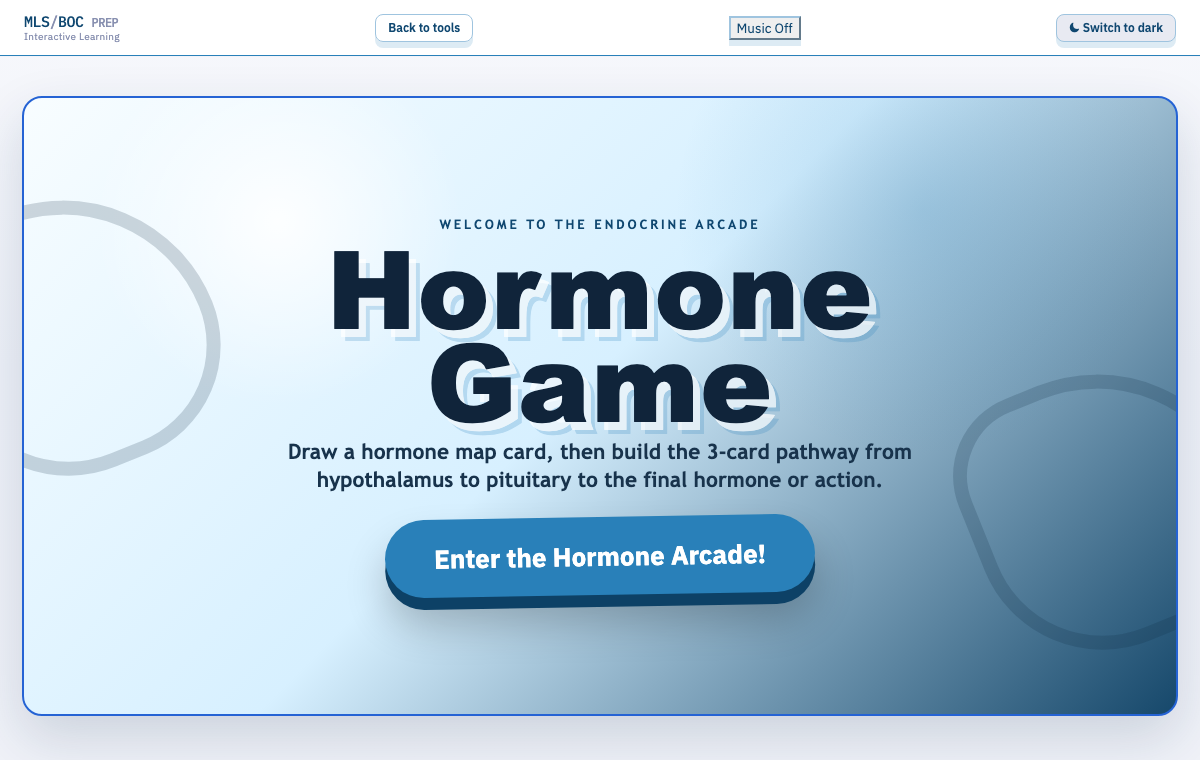
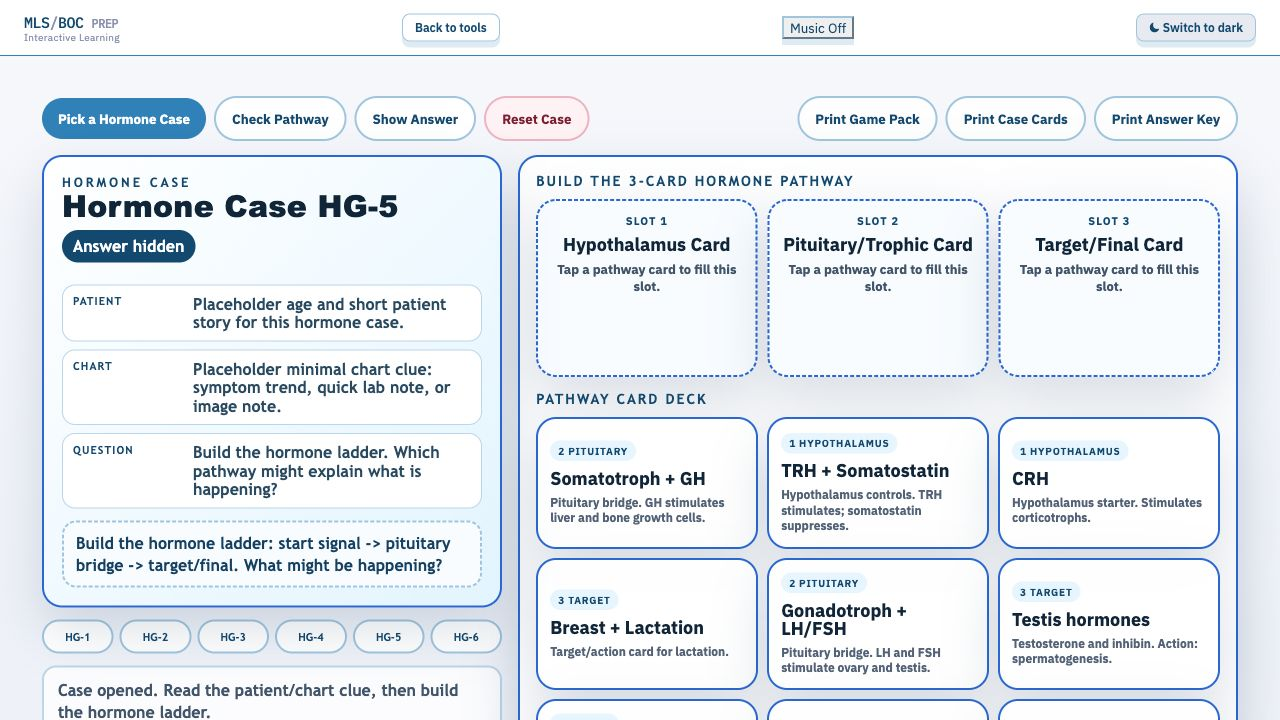
Hide hormone case answers

diff --git a/Hormone_Game.html b/Hormone_Game.html
@@ -190,6 +190,39 @@ body.hormone-game .mls-audio-btn{
   padding:8px 10px;
   background:#fff;
 }
+.case-chart{
+  display:grid;
+  gap:8px;
+  margin-top:12px;
+}
+.case-row{
+  display:grid;
+  grid-template-columns:110px 1fr;
+  gap:10px;
+  align-items:start;
+  border:1px solid #bad4ea;
+  border-radius:13px;
+  padding:9px 10px;
+  background:#fff;
+  color:#284861;
+  font-weight:900;
+}
+.case-row strong{
+  color:var(--chem-dark);
+  font-size:11px;
+  letter-spacing:.1em;
+  text-transform:uppercase;
+}
+.case-question{
+  margin-top:12px;
+  border:2px dashed #9fc4df;
+  border-radius:14px;
+  padding:10px 12px;
+  background:#f8fcff;
+  color:#123f62;
+  font-weight:1000;
+  line-height:1.35;
+}
 .progress-strip{
   display:grid;
   grid-template-columns:repeat(6,1fr);
@@ -346,6 +379,7 @@ body.hormone-game .mls-audio-btn{
   .card-bank{grid-template-columns:1fr}
   .toolbar{display:grid}
   .toolbar-left,.toolbar-right{display:grid;grid-template-columns:1fr 1fr}
+  .case-row{grid-template-columns:1fr;gap:3px}
 }
 </style>
 </head>
@@ -366,6 +400,13 @@ const routes = [
   {
     id:"adrenal",
     title:"Adrenal Stress Route",
+    caseCode:"HG-1",
+    caseTitle:"Hormone Case HG-1",
+    caseRows:[
+      ["Patient","Placeholder age and short patient story for this hormone case."],
+      ["Chart","Placeholder minimal chart clue: symptom trend, quick lab note, or image note."],
+      ["Question","Build the hormone ladder. Which pathway might explain what is happening?"]
+    ],
     goal:"Cortisol",
     axis:"CRH -> ACTH -> Cortisol",
     start:"start-adrenal",
@@ -377,6 +418,13 @@ const routes = [
   {
     id:"thyroid",
     title:"Thyroid Heat Route",
+    caseCode:"HG-2",
+    caseTitle:"Hormone Case HG-2",
+    caseRows:[
+      ["Patient","Placeholder age and short patient story for this hormone case."],
+      ["Chart","Placeholder minimal chart clue: symptom trend, quick lab note, or image note."],
+      ["Question","Build the hormone ladder. Which pathway might explain what is happening?"]
+    ],
     goal:"T3 and T4",
     axis:"TRH / Somatostatin -> TSH -> T3, T4",
     start:"start-thyroid",
@@ -388,6 +436,13 @@ const routes = [
   {
     id:"ovary",
     title:"Ovary Cycle Route",
+    caseCode:"HG-3",
+    caseTitle:"Hormone Case HG-3",
+    caseRows:[
+      ["Patient","Placeholder age and short patient story for this hormone case."],
+      ["Chart","Placeholder minimal chart clue: symptom trend, quick lab note, or image note."],
+      ["Question","Build the hormone ladder. Which pathway might explain what is happening?"]
+    ],
     goal:"Estradiol, progesterone, inhibin, follistatin",
     axis:"GnRH -> LH/FSH -> ovarian hormones",
     start:"start-gonadal",
@@ -399,6 +454,13 @@ const routes = [
   {
     id:"testis",
     title:"Testis Signal Route",
+    caseCode:"HG-4",
+    caseTitle:"Hormone Case HG-4",
+    caseRows:[
+      ["Patient","Placeholder age and short patient story for this hormone case."],
+      ["Chart","Placeholder minimal chart clue: symptom trend, quick lab note, or image note."],
+      ["Question","Build the hormone ladder. Which pathway might explain what is happening?"]
+    ],
     goal:"Testosterone and inhibin",
     axis:"GnRH -> LH/FSH -> testicular hormones",
     start:"start-gonadal",
@@ -410,6 +472,13 @@ const routes = [
   {
     id:"growth",
     title:"Growth Route",
+    caseCode:"HG-5",
+    caseTitle:"Hormone Case HG-5",
+    caseRows:[
+      ["Patient","Placeholder age and short patient story for this hormone case."],
+      ["Chart","Placeholder minimal chart clue: symptom trend, quick lab note, or image note."],
+      ["Question","Build the hormone ladder. Which pathway might explain what is happening?"]
+    ],
     goal:"IGF-1",
     axis:"GHRH / Somatostatin -> GH -> IGF-1",
     start:"start-growth",
@@ -421,6 +490,13 @@ const routes = [
   {
     id:"prolactin",
     title:"Lactation Route",
+    caseCode:"HG-6",
+    caseTitle:"Hormone Case HG-6",
+    caseRows:[
+      ["Patient","Placeholder age and short patient story for this hormone case."],
+      ["Chart","Placeholder minimal chart clue: symptom trend, quick lab note, or image note."],
+      ["Question","Build the hormone ladder. Which pathway might explain what is happening?"]
+    ],
     goal:"PRL",
     axis:"Dopamine suppression -> PRL -> lactation",
     start:"start-prl",
@@ -447,7 +523,7 @@ const cards = [
   {id:"final-growth",type:"final",name:"Liver + IGF-1",copy:"Final hormone: IGF-1. Actions: growth and anabolic metabolism."},
   {id:"start-prl",type:"start",name:"Dopamine",copy:"Hypothalamus suppressor. Dopamine suppresses lactotrophs."},
   {id:"mid-prl",type:"middle",name:"Lactotroph + PRL",copy:"Pituitary bridge. PRL travels to the breast."},
-  {id:"final-prl",type:"final",name:"Breast + Lactation",copy:"Final action: lactation."}
+  {id:"final-prl",type:"final",name:"Breast + Lactation",copy:"Target/action card for lactation."}
 ];
 
 const typeLabels = {start:"1 Hypothalamus",middle:"2 Pituitary",final:"3 Target"};
@@ -456,7 +532,7 @@ let currentRoute = null;
 let slots = [null,null,null];
 let selectedId = "";
 let solved = new Set();
-let feedback = "Grab a map card to begin.";
+let feedback = "Pick a hormone case to begin.";
 let feedbackType = "";
 let order = shuffle(cards.map(card => card.id));
 
@@ -483,7 +559,7 @@ function routeExpected(route){
 
 function enterGame(){
   scene = "board";
-  feedback = "Grab a map card. Then place exactly 3 cards in order.";
+  feedback = "Pick a hormone case. Then place exactly 3 ladder cards in order.";
   feedbackType = "";
   render();
 }
@@ -494,7 +570,7 @@ function drawMap(){
   currentRoute = pool[Math.floor(Math.random() * pool.length)];
   slots = [null,null,null];
   selectedId = "";
-  feedback = "Map drawn: build the pathway from start to final hormone/action.";
+  feedback = "Case opened. Read the patient/chart clue, then build the hormone ladder.";
   feedbackType = "";
   order = shuffle(cards.map(card => card.id));
   render();
@@ -502,7 +578,7 @@ function drawMap(){
 
 function placeCard(id){
   if(!currentRoute){
-    feedback = "Grab a map card first.";
+    feedback = "Pick a hormone case first.";
     feedbackType = "bad";
     render();
     return;
@@ -542,14 +618,14 @@ function clearSlot(index){
 function resetRound(){
   slots = [null,null,null];
   selectedId = "";
-  feedback = currentRoute ? "Round reset. Build the 3-card pathway again." : "Grab a map card to begin.";
+  feedback = currentRoute ? "Case reset. Build the 3-card hormone ladder again." : "Pick a hormone case to begin.";
   feedbackType = "";
   render();
 }
 
 function checkPath(){
   if(!currentRoute){
-    feedback = "Grab a map card first.";
+    feedback = "Pick a hormone case first.";
     feedbackType = "bad";
     render();
     return;
@@ -568,7 +644,7 @@ function checkPath(){
     feedbackType = "good";
   }else{
     const firstMiss = slots.findIndex((id, index) => id !== expected[index]);
-    feedback = "Route jam at slot " + (firstMiss + 1) + ". Check the order from hypothalamus to final target.";
+    feedback = "Ladder jam at slot " + (firstMiss + 1) + ". Check the order: hypothalamus, pituitary, target/final.";
     feedbackType = "bad";
   }
   render();
@@ -580,7 +656,7 @@ function showAnswer(){
     return;
   }
   slots = routeExpected(currentRoute);
-  feedback = "Answer shown for this map. Study the route, then draw another.";
+  feedback = "Answer revealed for this case. Study the ladder, then pick another case.";
   feedbackType = "good";
   render();
 }
@@ -597,7 +673,7 @@ function renderHero(){
     <div class="hero-panel">
       <div class="eyebrow">Welcome to the endocrine arcade</div>
       <h1 class="game-font">Hormone Game</h1>
-      <p class="hero-copy">Draw a hormone map card, then build the 3-card pathway from hypothalamus to pituitary to the final hormone or action.</p>
+      <p class="hero-copy">Pick a hormone case, read the tiny patient/chart clue, then build the 3-card hormone ladder without seeing the answer first.</p>
       <button class="enter-btn" type="button" onclick="enterGame()">Enter the Hormone Arcade!</button>
     </div>
   </section>`;
@@ -606,14 +682,14 @@ function renderHero(){
 function renderToolbar(){
   return `<div class="toolbar">
     <div class="toolbar-left">
-      <button class="primary-btn" type="button" onclick="drawMap()">Grab a Map Card</button>
+      <button class="primary-btn" type="button" onclick="drawMap()">Pick a Hormone Case</button>
       <button class="ghost-btn" type="button" onclick="checkPath()">Check Pathway</button>
       <button class="ghost-btn" type="button" onclick="showAnswer()">Show Answer</button>
-      <button class="danger-btn" type="button" onclick="resetRound()">Reset Map</button>
+      <button class="danger-btn" type="button" onclick="resetRound()">Reset Case</button>
     </div>
     <div class="toolbar-right">
       <button class="print-btn" type="button" onclick="printGamePack()">Print Game Pack</button>
-      <button class="print-btn" type="button" onclick="printMapCards()">Print Map Cards</button>
+      <button class="print-btn" type="button" onclick="printMapCards()">Print Case Cards</button>
       <button class="print-btn" type="button" onclick="printAnswerKey()">Print Answer Key</button>
     </div>
   </div>`;
@@ -623,28 +699,27 @@ function renderMapCard(){
   if(!currentRoute){
     return `<section class="map-card empty">
       <div>
-        <div class="eyebrow">Map deck</div>
-        <h2 class="game-font">Grab a card</h2>
-        <p class="hero-copy" style="font-size:17px;margin-bottom:18px">A random endocrine route will appear here. Build it with 3 ordered cards.</p>
-        <button class="primary-btn" type="button" onclick="drawMap()">Draw Random Map</button>
+        <div class="eyebrow">Hormone case deck</div>
+        <h2 class="game-font">Pick a case</h2>
+        <p class="hero-copy" style="font-size:17px;margin-bottom:18px">A minimal patient/chart clue will appear here. Build the hormone ladder that might explain it.</p>
+        <button class="primary-btn" type="button" onclick="drawMap()">Open Random Case</button>
       </div>
     </section>`;
   }
   return `<section class="map-card">
-    <div class="eyebrow">Map card</div>
-    <h2 class="game-font">${esc(currentRoute.title)}</h2>
-    <span class="map-goal">Goal: ${esc(currentRoute.goal)}</span>
-    <div class="map-meta">
-      <span><strong>Route clue:</strong> ${esc(currentRoute.axis)}</span>
-      <span><strong>Final action:</strong> ${esc(currentRoute.action)}</span>
-      <span><strong>Rule:</strong> Place 3 cards in order: start, bridge, final.</span>
+    <div class="eyebrow">Hormone case</div>
+    <h2 class="game-font">${esc(currentRoute.caseTitle)}</h2>
+    <span class="map-goal">Answer hidden</span>
+    <div class="case-chart">
+      ${currentRoute.caseRows.map(row => `<div class="case-row"><strong>${esc(row[0])}</strong><span>${esc(row[1])}</span></div>`).join("")}
     </div>
+    <div class="case-question">Build the hormone ladder: start signal -> pituitary bridge -> target/final. What might be happening?</div>
   </section>`;
 }
 
 function renderProgress(){
   return `<div class="progress-strip">
-    ${routes.map(route => `<div class="progress-dot ${solved.has(route.id) ? "solved" : ""}">${esc(route.goal.split(" ")[0])}</div>`).join("")}
+    ${routes.map(route => `<div class="progress-dot ${solved.has(route.id) ? "solved" : ""}">${esc(route.caseCode)}</div>`).join("")}
   </div>`;
 }
 
@@ -680,7 +755,7 @@ function renderCardBank(){
 function renderStudyMap(){
   if(!currentRoute)return "";
   return `<section class="study-map ${feedbackType === "good" ? "visible" : ""}">
-    <h3>Study map: ${esc(currentRoute.title)}</h3>
+    <h3>Study ladder: ${esc(currentRoute.title)}</h3>
     <div class="study-map-grid">
       ${currentRoute.details.map(item => `<div>${esc(item)}</div>`).join("")}
     </div>
@@ -717,12 +792,23 @@ function printCard(title, label, body){
   </article>`;
 }
 
+function printCaseCard(route){
+  return `<article class="print-card">
+    <h3>Hormone Case Card</h3>
+    <h2>${esc(route.caseTitle)}</h2>
+    <ul>
+      ${route.caseRows.map(row => `<li><strong>${esc(row[0])}:</strong> ${esc(row[1])}</li>`).join("")}
+    </ul>
+    <p><strong>Build the hormone ladder:</strong> start signal -> pituitary bridge -> target/final. Answer hidden.</p>
+  </article>`;
+}
+
 function renderPrintMaps(){
   return `<section class="print-page">
-    <h1 class="print-title">Hormone Game - Map Cards</h1>
-    <p class="print-note">Draw one map card. Build the route with 3 ordered pathway cards.</p>
+    <h1 class="print-title">Hormone Game - Case Cards</h1>
+    <p class="print-note">Pick one case card. Use the patient/chart clue to build the 3-card hormone ladder. These cards do not include answers.</p>
     <div class="print-grid">
-      ${routes.map(route => printCard(route.title, "Map Card", "Goal: " + route.goal + ". Route: " + route.axis + ". Action: " + route.action + ".")).join("")}
+      ${routes.map(route => printCaseCard(route)).join("")}
     </div>
   </section>`;
 }
@@ -740,14 +826,14 @@ function renderPrintPathCards(){
 function renderPrintKey(){
   return `<section class="print-page">
     <h1 class="print-title">Hormone Game - Answer Key</h1>
-    <p class="print-note">Low-ink route key from the provided anterior pituitary hormone map.</p>
+    <p class="print-note">Low-ink case key from the provided anterior pituitary hormone map.</p>
     <table class="answer-table">
-      <thead><tr><th>Map</th><th>Card 1</th><th>Card 2</th><th>Card 3</th><th>Feedback</th></tr></thead>
+      <thead><tr><th>Case</th><th>Card 1</th><th>Card 2</th><th>Card 3</th><th>Feedback</th></tr></thead>
       <tbody>
         ${routes.map(route => {
           const expected = routeExpected(route).map(cardById);
           return `<tr>
-            <td>${esc(route.title)}</td>
+            <td>${esc(route.caseCode + " - " + route.title)}</td>
             <td>${esc(expected[0].name)}</td>
             <td>${esc(expected[1].name)}</td>
             <td>${esc(expected[2].name)}</td>

diff --git a/index.html b/index.html
@@ -1247,7 +1247,7 @@ const BUILT_IN_INTERACTIVE_LINKS=[
   {title:'UA Case Game',url:'UA_Renal_Case_Files.html',description:'Mystery-style UA pattern game with diagnosis tokens',topic:'Urinalysis',icon:'🔎',color:'#c8a800',image_url:'assets/interactive-previews/ua_case_game_icon.svg',preview_url:'assets/interactive-previews/ua_case_game_mystery.svg'},
   {title:'Urine Color & Clarity',url:'Urine_Color_and_Clarity.html',description:'Match urine appearance to causes and findings',topic:'Urinalysis',icon:'UC',color:'#c8a800',preview_url:'assets/interactive-previews/urine_color_clarity.png'},
   {title:'Urinary System Labeling',url:'urinary_labeling.html',description:'Label renal and urinary anatomy',topic:'Urinalysis',icon:'RN',color:'#c8a800',preview_url:'assets/interactive-previews/urinary_system_labeling.png'},
-  {title:'Hormone Game',url:'Hormone_Game.html',description:'Draw endocrine map cards and build 3-step hormone pathways',topic:'Chemistry',icon:'HG',color:'#2980b9',preview_url:'assets/interactive-previews/hormone_game.png?v=20260605-1'},
+  {title:'Hormone Game',url:'Hormone_Game.html',description:'Pick endocrine case cards and build hidden hormone ladders',topic:'Chemistry',icon:'HG',color:'#2980b9',preview_url:'assets/interactive-previews/hormone_game.png?v=20260605-2'},
   {title:'Thyroid Lab Findings',url:'Thyroid_Label.html',description:'Drag thyroid hormones into the interpretation table',topic:'Chemistry',icon:'TH',color:'#2980b9',preview_url:'assets/interactive-previews/thyroid_lab_findings.png'},
   {title:'Parathyroid & Hypercalcemia',url:'Para_Thyroid_Label.html',description:'Match PTH, calcium and hypercalcemia findings',topic:'Chemistry',icon:'PT',color:'#2980b9',preview_url:'assets/interactive-previews/parathyroid_hypercalcemia.png'},
   {title:'Mystery Micronutrient Game',url:'Metal_Vitamin_Shop.html',description:'Read clue cards and identify metal or vitamin tokens',topic:'Chemistry',icon:'MV',color:'#2980b9',preview_url:'assets/interactive-previews/metal_vitamin_shop.svg'},